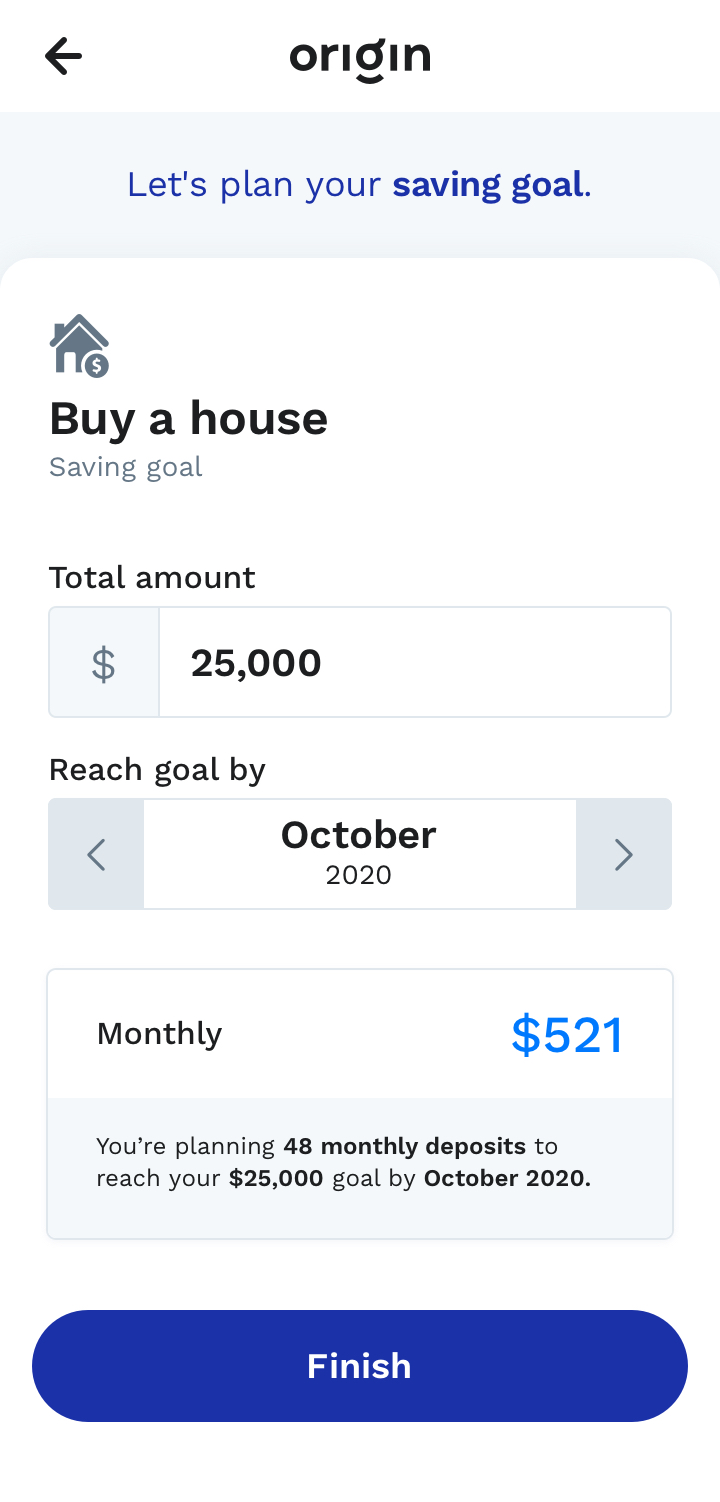
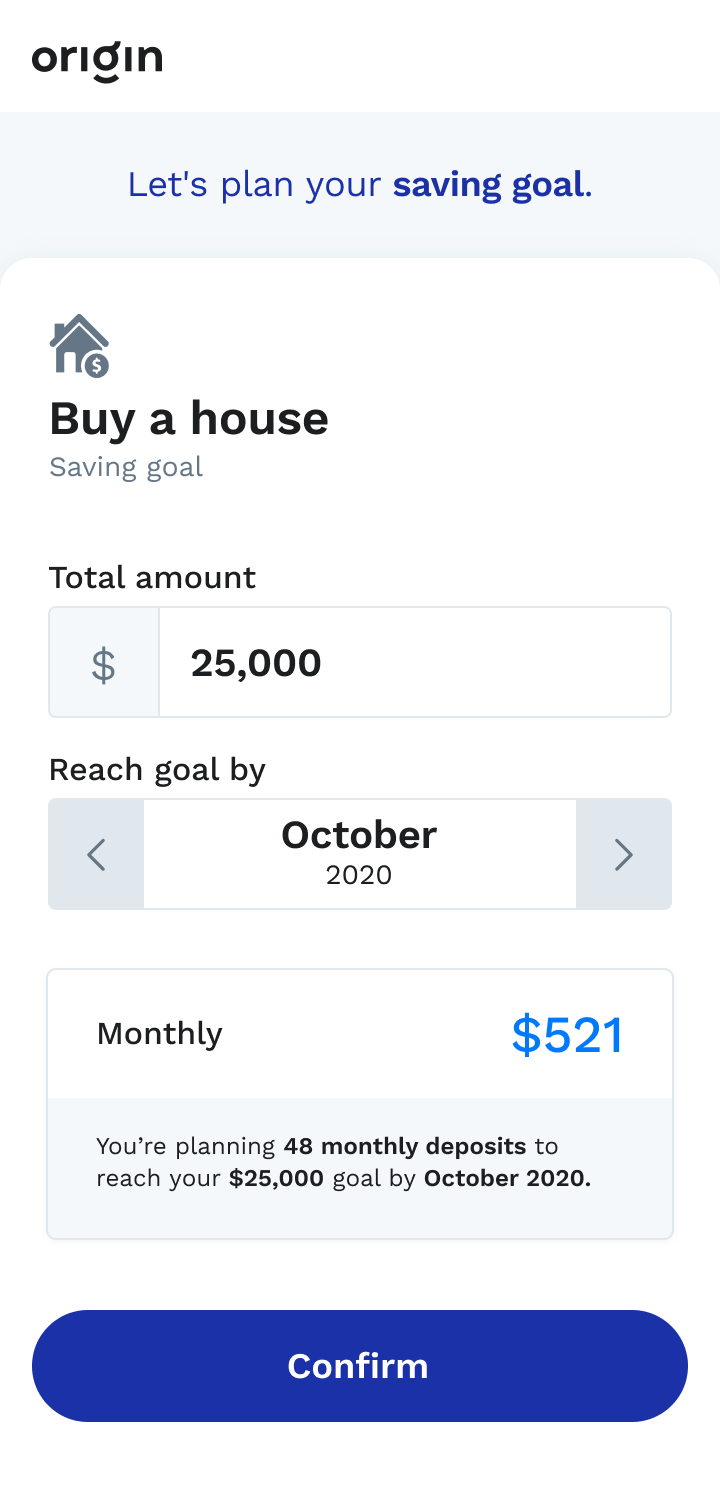
updates new layout images and updates docs

diff --git a/README.md b/README.md
@@ -4,21 +4,18 @@ Origin is a platform that helps our customers' employees put their financial liv
 
 One key to financial well-being is planning & saving for your goals. Users can have many saving goals (e.g. go to college or throw a wedding party) and it is our job to help them accomplish it.
 
-You will build a piece of our savings feature by creating the the saving plan simulation screen.
+You will build a piece of our savings feature by creating the savings plan simulation screen.
 
-## The Saving Goal Plan Simulation Screen
+### The Saving Goal Plan Simulation Screen
 
 ![Saving Goal Plan Mockup Desktop](https://github.com/OriginFinancial/frontend-take-home-assignment/blob/master/mockups/saving-goal-plan-desk.png)
 
-You will build a screen where the user will simulate saving towards the "go to college" saving goal.
-
+You will build a screen where the user will simulate saving towards the "Buy a house" savings goal.
 In it, the users choose (i) the value they want to save and (ii) the date they plan to reach the goal.
 
 When the users change the value of any of the inputs, the monthly deposit value is calculated and displayed to them.
 
-Mobile version mockup [here](https://github.com/OriginFinancial/frontend-take-home-assignment/blob/master/mockups/saving-goal-plan-mobile.png).
-
-## Instructions
+# Development Instructions
 
 We expect you to:
 
@@ -26,34 +23,43 @@ We expect you to:
 2. Implement business rules.
 3. Test the codebase.
 
+### Assets
+
+You can find the layout mockups here on our Figma project:
+[Layout mockups](https://www.figma.com/file/kQbSy4KVXeF1tJsQRcYc5o/Take-Home-Assignment?node-id=0%3A1)
+
+Once you have opened the link you must sign up and log in so you can have access to the colors, fonts, margins and assets information.
+
+#### Money input
+
+- The date input component should:
+- Allow only numbers
+- Display the value formatted as money (e.g 3500.45 should be 3,500.44)
+
+#### Date input
+
+The date input component should:
+
+- Allow only future dates
+- When clicking on the arrow buttons it should go up and down month by month
+- The users should be able to move the months by typing the Left and Right arrow key on the keyboard
+
+#### Confirm button
+
+You don't need to add any action on the confirmation button
+
+### Project structure
+
 We've added a project structure (build system with react, redux, jest, styled-components and typescript) so you don't waste your time with configuration. If you are more comfortable with a different stack, feel free to change it.
 
-## Assets
+# Delivery Instructions
 
-**Theme Colors:**
+We expect you to deliver your final code with one of these options:
 
-- blue = `#1b31a8`
-- light blue = `#0079ff`
-- red = `#fe5722`
-- green = `#4fda68`
-- yellow = `#ffcc00`
-- black = `#000000`
-- almost black = `#1d1e1f`
-- dark grey = `#657786'`
-- grey = `#aab8c2`
-- light grey = `#e1e8ed`
-- superlight grey = `#f4f8fa`
-- grey blue = `#eff7ff`
-- white = `#ffffff`
+- You can open a Pull Request to this Github repository.
+- You can send to us the link for your repository (make sure to make it public)
 
-**Fonts:**
-
-- Work Sans
-- Rubik
-
-You can get it from `https://fonts.googleapis.com/css?family=Rubik:400,500,700|Work+Sans:400,600,500,700&display=swap`
-
-## Usage
+# Usage
 
 This project requires `Node >=12` and `NPM >= 6`.
 
